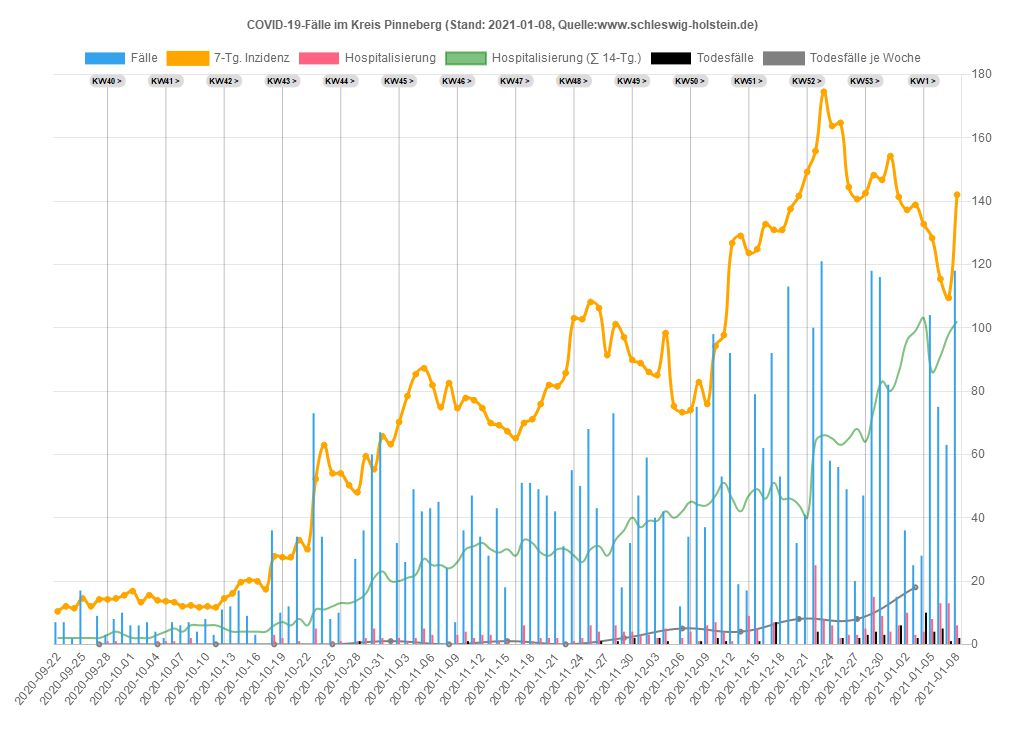
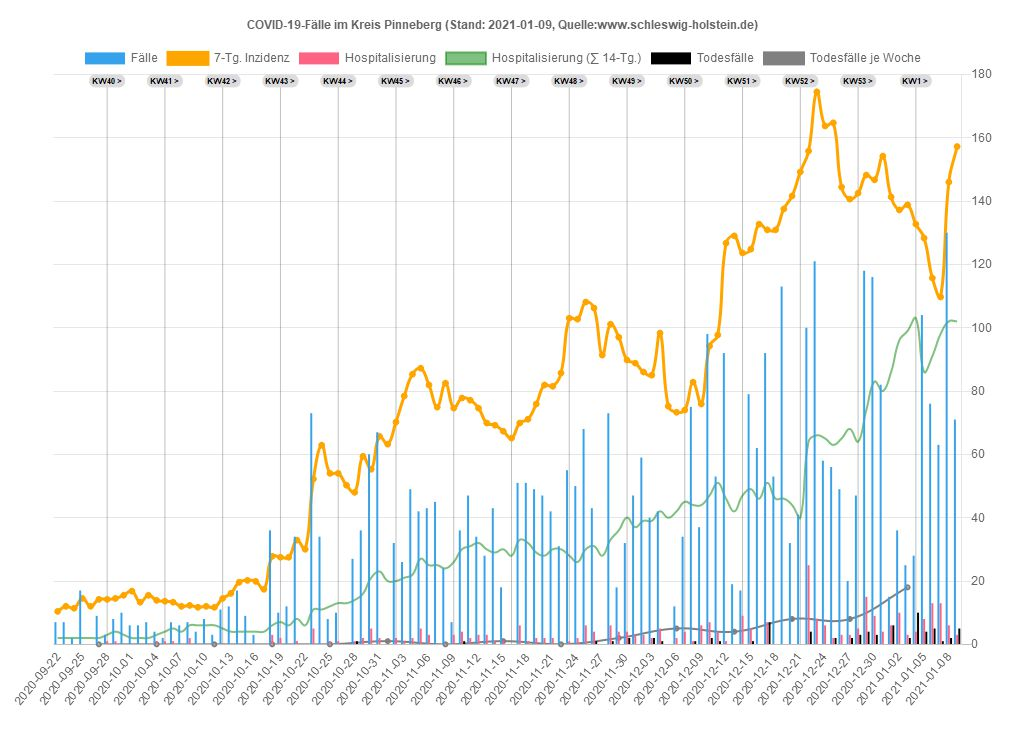
09.01.2021 21:16:49,86

Changed region(s): [[0.0625, 0.0931, 0.9375, 0.9622], [0.1562, 0.0931, 0.2812, 0.1242], [0.3125, 0.0931, 0.3438, 0.1242]]

diff --git a/sh/Data_SH.js b/sh/Data_SH.js
@@ -1,20 +1,20 @@
 var chdata={
-labels: ["2020-09-22","2020-09-23","2020-09-24","2020-09-25","2020-09-26","2020-09-27","2020-09-28","2020-09-29","2020-09-30","2020-10-01","2020-10-02","2020-10-03","2020-10-04","2020-10-05","2020-10-06","2020-10-07","2020-10-08","2020-10-09","2020-10-10","2020-10-11","2020-10-12","2020-10-13","2020-10-14","2020-10-15","2020-10-16","2020-10-17","2020-10-18","2020-10-19","2020-10-20","2020-10-21","2020-10-22","2020-10-23","2020-10-24","2020-10-25","2020-10-26","2020-10-27","2020-10-28","2020-10-29","2020-10-30","2020-10-31","2020-11-01","2020-11-02","2020-11-03","2020-11-04","2020-11-05","2020-11-06","2020-11-07","2020-11-08","2020-11-09","2020-11-10","2020-11-11","2020-11-12","2020-11-13","2020-11-14","2020-11-15","2020-11-16","2020-11-17","2020-11-18","2020-11-19","2020-11-20","2020-11-21","2020-11-22","2020-11-23","2020-11-24","2020-11-25","2020-11-26","2020-11-27","2020-11-28","2020-11-29","2020-11-30","2020-12-01","2020-12-02","2020-12-03","2020-12-04","2020-12-05","2020-12-06","2020-12-07","2020-12-08","2020-12-09","2020-12-10","2020-12-11","2020-12-12","2020-12-13","2020-12-14","2020-12-15","2020-12-16","2020-12-17","2020-12-18","2020-12-19","2020-12-20","2020-12-21","2020-12-22","2020-12-23","2020-12-24","2020-12-25","2020-12-26","2020-12-27","2020-12-28","2020-12-29","2020-12-30","2020-12-31","2021-01-01","2021-01-02","2021-01-03","2021-01-04","2021-01-05","2021-01-06","2021-01-07","2021-01-08"],
+labels: ["2020-09-22","2020-09-23","2020-09-24","2020-09-25","2020-09-26","2020-09-27","2020-09-28","2020-09-29","2020-09-30","2020-10-01","2020-10-02","2020-10-03","2020-10-04","2020-10-05","2020-10-06","2020-10-07","2020-10-08","2020-10-09","2020-10-10","2020-10-11","2020-10-12","2020-10-13","2020-10-14","2020-10-15","2020-10-16","2020-10-17","2020-10-18","2020-10-19","2020-10-20","2020-10-21","2020-10-22","2020-10-23","2020-10-24","2020-10-25","2020-10-26","2020-10-27","2020-10-28","2020-10-29","2020-10-30","2020-10-31","2020-11-01","2020-11-02","2020-11-03","2020-11-04","2020-11-05","2020-11-06","2020-11-07","2020-11-08","2020-11-09","2020-11-10","2020-11-11","2020-11-12","2020-11-13","2020-11-14","2020-11-15","2020-11-16","2020-11-17","2020-11-18","2020-11-19","2020-11-20","2020-11-21","2020-11-22","2020-11-23","2020-11-24","2020-11-25","2020-11-26","2020-11-27","2020-11-28","2020-11-29","2020-11-30","2020-12-01","2020-12-02","2020-12-03","2020-12-04","2020-12-05","2020-12-06","2020-12-07","2020-12-08","2020-12-09","2020-12-10","2020-12-11","2020-12-12","2020-12-13","2020-12-14","2020-12-15","2020-12-16","2020-12-17","2020-12-18","2020-12-19","2020-12-20","2020-12-21","2020-12-22","2020-12-23","2020-12-24","2020-12-25","2020-12-26","2020-12-27","2020-12-28","2020-12-29","2020-12-30","2020-12-31","2021-01-01","2021-01-02","2021-01-03","2021-01-04","2021-01-05","2021-01-06","2021-01-07","2021-01-08","2021-01-09"],
 datasets: [
 {label: 'Fälle',
 type: 'bar',
 backgroundColor: window.chartColors.blue,
-data: [38,42,63,53,15,15,38,48,49,27,50,16,24,39,54,45,79,54,26,25,65,65,65,55,90,26,88,163,111,160,136,236,142,115,164,164,280,215,313,265,161,142,236,262,220,274,233,177,215,252,247,192,296,158,161,100,294,208,264,250,153,121,145,251,256,225,180,219,71,81,244,240,245,318,234,122,179,356,340,443,429,444,144,210,506,522,489,553,440,193,280,589,673,366,177,201,188,268,576,466,357,135,264,203,265,543,532,481,506]},
+data: [38,42,63,53,15,15,38,48,49,27,50,16,24,39,54,45,79,54,26,25,65,65,65,55,90,26,88,163,111,160,136,236,142,115,164,164,280,215,313,265,161,142,236,262,220,274,233,177,215,252,247,192,296,158,161,100,294,208,264,250,153,121,145,251,256,225,180,219,71,81,244,240,245,318,234,122,179,356,340,443,429,444,144,210,506,522,489,553,440,193,280,589,673,366,177,201,188,268,576,466,357,135,264,203,265,544,534,483,518,408]},
 {label: '7-Tg. Inzidenz',
 type: 'line',
 fill: false,
 pointBackgroundColor: 'orange',
 borderColor: 'orange',
-data: [7.2,7.9,8.7,9.4,9.3,9.2,9.1,9.4,9.7,8.4,8.3,8.4,8.7,8.7,8.9,8.8,10.6,10.7,11.1,11.1,12.0,12.4,13.1,12.2,13.5,13.5,15.6,19.0,20.6,23.9,26.7,31.7,35.7,36.6,36.6,38.5,42.6,45.3,48.0,52.2,53.8,53.0,55.5,54.9,55.1,53.7,52.6,53.2,55.7,56.2,55.7,54.8,55.5,52.9,52.4,48.4,49.9,48.5,51.0,49.4,49.2,47.9,49.4,47.9,49.6,48.2,45.8,48.1,46.4,44.2,43.9,43.4,44.1,48.8,49.3,51.1,54.5,58.3,61.8,68.6,72.4,79.7,80.4,81.5,86.6,92.9,94.5,98.8,98.6,100.3,102.7,105.6,110.8,106.6,93.6,85.4,85.2,84.8,84.3,77.2,76.9,75.5,77.6,78.1,78.0,76.9,79.2,83.4,96.2]},
+data: [7.2,7.9,8.7,9.4,9.3,9.2,9.1,9.4,9.7,8.4,8.3,8.4,8.7,8.7,8.9,8.8,10.6,10.7,11.1,11.1,12.0,12.4,13.1,12.2,13.5,13.5,15.6,19.0,20.6,23.9,26.7,31.7,35.7,36.6,36.6,38.5,42.6,45.3,48.0,52.2,53.8,53.0,55.5,54.9,55.1,53.7,52.6,53.2,55.7,56.2,55.7,54.8,55.5,52.9,52.4,48.4,49.9,48.5,51.0,49.4,49.2,47.9,49.4,47.9,49.6,48.2,45.8,48.1,46.4,44.2,43.9,43.4,44.1,48.8,49.3,51.1,54.5,58.3,61.8,68.6,72.4,79.7,80.4,81.5,86.6,92.9,94.5,98.8,98.6,100.3,102.7,105.6,110.8,106.6,93.6,85.4,85.2,84.8,84.3,77.2,76.9,75.5,77.6,78.1,78.0,76.9,79.3,83.6,96.8,101.8]},
 {label: 'Hospitalisierung',
 type: 'bar',
 backgroundColor: window.chartColors.red,
-data: [1,2,7,1,0,0,2,1,3,1,1,0,4,3,1,1,4,2,0,3,5,1,1,2,4,0,9,10,8,9,12,7,5,6,7,7,11,10,11,6,3,9,19,20,15,15,5,7,13,15,21,13,17,8,17,13,23,10,15,9,7,7,13,16,26,19,12,14,15,10,12,8,10,14,3,5,24,13,26,20,14,12,6,26,27,16,20,18,8,13,13,43,35,23,17,21,26,25,46,33,33,20,34,32,51,58,35,46,34]},
+data: [1,2,7,1,0,0,2,1,3,1,1,0,4,3,1,1,4,2,0,3,5,1,1,2,4,0,9,10,8,9,12,7,5,6,7,7,11,10,11,6,3,9,19,20,15,15,5,7,13,15,21,13,17,8,17,13,23,10,15,9,7,7,13,16,26,19,12,14,15,10,12,8,10,14,3,5,24,13,26,20,14,12,6,26,27,16,20,18,8,13,13,43,35,23,17,21,26,25,46,33,33,20,34,32,51,58,35,46,34,30]},
 {label: 'Hosp. (∑ 14-Tg.)',
 type: 'line',
 fill: false,
@@ -22,17 +22,17 @@ hidden: true,
 borderColor: 'rgba(0,255,0,0.5)',
 borderWidth: 1.5,
 pointRadius: 0,
-data: [12,12,20,22,22,22,22,23,23,21,22,21,24,26,26,25,22,23,23,26,29,29,27,28,31,31,36,43,50,58,66,71,76,79,81,87,97,105,112,118,112,111,122,133,136,144,144,145,151,159,169,172,178,180,194,198,202,192,192,186,188,188,188,189,194,200,195,201,199,196,185,183,178,183,179,177,188,185,185,186,188,186,177,193,208,216,226,230,235,243,232,262,271,274,277,286,306,305,324,341,354,356,382,401,439,454,454,477,494]},
+data: [12,12,20,22,22,22,22,23,23,21,22,21,24,26,26,25,22,23,23,26,29,29,27,28,31,31,36,43,50,58,66,71,76,79,81,87,97,105,112,118,112,111,122,133,136,144,144,145,151,159,169,172,178,180,194,198,202,192,192,186,188,188,188,189,194,200,195,201,199,196,185,183,178,183,179,177,188,185,185,186,188,186,177,193,208,216,226,230,235,243,232,262,271,274,277,286,306,305,324,341,354,356,382,401,439,454,454,477,494,503]},
 {label: 'Aktuell im Krankenhaus',
 type: 'line',
 fill: false,
 pointBackgroundColor: 'green',
 borderColor: 'green',
-data: [6,6,6,6,6,6,6,11,11,11,11,14,14,15,15,14,14,14,13,13,18,18,18,21,24,24,24,24,31,31,31,31,51,51,58,58,58,58,58,58,58,94,110,114,119,118,124,120,126,116,113,119,112,116,116,148,145,151,141,141,141,141,155,142,122,113,118,118,118,124,114,110,109,114,114,114,131,122,128,132,133,133,133,177,181,194,201,212,236,250,275,271,267,262,262,262,262,309,318,322,346,346,376,376,390,412,376,379,364]},
+data: [6,6,6,6,6,6,6,11,11,11,11,14,14,15,15,14,14,14,13,13,18,18,18,21,24,24,24,24,31,31,31,31,51,51,58,58,58,58,58,58,58,94,110,114,119,118,124,120,126,116,113,119,112,116,116,148,145,151,141,141,141,141,155,142,122,113,118,118,118,124,114,110,109,114,114,114,131,122,128,132,133,133,133,177,181,194,201,212,236,250,275,271,267,262,262,262,262,309,318,322,346,346,376,376,390,412,376,379,364,364]},
 {label: 'Todesfälle',
 type: 'bar',
 backgroundColor: 'black',
-data: [0,0,0,0,0,0,0,1,0,0,0,0,0,0,0,0,0,0,0,0,0,1,0,0,0,0,0,0,0,0,1,0,0,3,0,0,3,4,1,0,2,6,7,2,2,6,0,1,4,3,5,0,5,1,3,5,0,2,2,2,1,0,3,4,1,3,3,1,4,2,3,1,4,1,0,1,4,2,5,7,7,1,2,2,6,7,11,3,2,0,9,15,4,3,4,7,10,18,17,14,2,9,7,3,29,22,17,6,14]},
+data: [0,0,0,0,0,0,0,1,0,0,0,0,0,0,0,0,0,0,0,0,0,1,0,0,0,0,0,0,0,0,1,0,0,3,0,0,3,4,1,0,2,6,7,2,2,6,0,1,4,3,5,0,5,1,3,5,0,2,2,2,1,0,3,4,1,3,3,1,4,2,3,1,4,1,0,1,4,2,5,7,7,1,2,2,6,7,11,3,2,0,9,15,4,3,4,7,10,18,17,14,2,9,7,3,29,22,17,6,14,11]},
 {label: 'Todesfälle je Woche',
 type: 'line',
 fill: false,
@@ -41,6 +41,6 @@ borderColor: 'rgba(128,128,128,1)',
 borderWidth: 2,
 pointRadius: 2,
 yAxisID: 'first-y-axis',
-data: [,,,,,0,,,,,,,1,,,,,,,0,,,,,,,1,,,,,,,4,,,,,,,10,,,,,,,24,,,,,,,21,,,,,,,12,,,,,,,19,,,,,,,12,,,,,,,28,,,,,,,31,,,,,,,52,,,,,,,70,,,,,]},
+data: [,,,,,0,,,,,,,1,,,,,,,0,,,,,,,1,,,,,,,4,,,,,,,10,,,,,,,24,,,,,,,21,,,,,,,12,,,,,,,19,,,,,,,12,,,,,,,28,,,,,,,31,,,,,,,52,,,,,,,70,,,,,,]},
 ]};
 

diff --git a/sh/Data_SH_Alter.js b/sh/Data_SH_Alter.js
@@ -119,7 +119,8 @@ var chdata={
 				{x: '2021-01-05', y: 'Alle', v: 76.6244469, casesum: 2225},{x: '2021-01-05', y: '00-09', v: 23.7611112, casesum: 61},{x: '2021-01-05', y: '10-19', v: 52.8972091, casesum: 146},{x: '2021-01-05', y: '20-29', v: 108.137841, casesum: 346},{x: '2021-01-05', y: '30-39', v: 93.1300935, casesum: 313},{x: '2021-01-05', y: '40-49', v: 83.6943539, casesum: 295},{x: '2021-01-05', y: '50-59', v: 76.7055375, casesum: 380},{x: '2021-01-05', y: '60-69', v: 55.2911727, casesum: 201},{x: '2021-01-05', y: '70-79', v: 62.8524893, casesum: 186},{x: '2021-01-05', y: '80-89', v: 118.540388, casesum: 212},{x: '2021-01-05', y: '90+', v: 294.975014, casesum: 85},
 				{x: '2021-01-06', y: 'Alle', v: 76.7277607, casesum: 2228},{x: '2021-01-06', y: '00-09', v: 23.7611112, casesum: 61},{x: '2021-01-06', y: '10-19', v: 54.3464477, casesum: 150},{x: '2021-01-06', y: '20-29', v: 114.388584, casesum: 366},{x: '2021-01-06', y: '30-39', v: 93.4276338, casesum: 314},{x: '2021-01-06', y: '40-49', v: 80.8572572, casesum: 285},{x: '2021-01-06', y: '50-59', v: 73.879544, casesum: 366},{x: '2021-01-06', y: '60-69', v: 53.6406899, casesum: 195},{x: '2021-01-06', y: '70-79', v: 65.2179055, casesum: 193},{x: '2021-01-06', y: '80-89', v: 121.336151, casesum: 217},{x: '2021-01-06', y: '90+', v: 281.093837, casesum: 81},
 				{x: '2021-01-07', y: 'Alle', v: 80.963629, casesum: 2351},{x: '2021-01-07', y: '00-09', v: 23.7611112, casesum: 61},{x: '2021-01-07', y: '10-19', v: 62.3172601, casesum: 172},{x: '2021-01-07', y: '20-29', v: 125.952457, casesum: 403},{x: '2021-01-07', y: '30-39', v: 95.8079556, casesum: 322},{x: '2021-01-07', y: '40-49', v: 85.9640313, casesum: 303},{x: '2021-01-07', y: '50-59', v: 76.5036809, casesum: 379},{x: '2021-01-07', y: '60-69', v: 54.7410117, casesum: 199},{x: '2021-01-07', y: '70-79', v: 62.8524893, casesum: 186},{x: '2021-01-07', y: '80-89', v: 131.960054, casesum: 236},{x: '2021-01-07', y: '90+', v: 312.326485, casesum: 90},
-				{x: '2021-01-08', y: 'Alle', v: 94.8421244, casesum: 2754},{x: '2021-01-08', y: '00-09', v: 27.6563754, casesum: 71},{x: '2021-01-08', y: '10-19', v: 72.0996207, casesum: 199},{x: '2021-01-08', y: '20-29', v: 144.704684, casesum: 463},{x: '2021-01-08', y: '30-39', v: 114.25545, casesum: 384},{x: '2021-01-08', y: '40-49', v: 95.3264505, casesum: 336},{x: '2021-01-08', y: '50-59', v: 86.5965147, casesum: 429},{x: '2021-01-08', y: '60-69', v: 65.7442302, casesum: 239},{x: '2021-01-08', y: '70-79', v: 75.3554038, casesum: 223},{x: '2021-01-08', y: '80-89', v: 164.390915, casesum: 294},{x: '2021-01-08', y: '90+', v: 402.554137, casesum: 116}
+				{x: '2021-01-08', y: 'Alle', v: 94.8421244, casesum: 2754},{x: '2021-01-08', y: '00-09', v: 27.6563754, casesum: 71},{x: '2021-01-08', y: '10-19', v: 72.0996207, casesum: 199},{x: '2021-01-08', y: '20-29', v: 144.704684, casesum: 463},{x: '2021-01-08', y: '30-39', v: 114.25545, casesum: 384},{x: '2021-01-08', y: '40-49', v: 95.3264505, casesum: 336},{x: '2021-01-08', y: '50-59', v: 86.5965147, casesum: 429},{x: '2021-01-08', y: '60-69', v: 65.7442302, casesum: 239},{x: '2021-01-08', y: '70-79', v: 75.3554038, casesum: 223},{x: '2021-01-08', y: '80-89', v: 164.390915, casesum: 294},{x: '2021-01-08', y: '90+', v: 402.554137, casesum: 116},
+				{x: '2021-01-09', y: 'Alle', v: 99.6289999, casesum: 2893},{x: '2021-01-09', y: '00-09', v: 30.7725867, casesum: 79},{x: '2021-01-09', y: '10-19', v: 77.5342654, casesum: 214},{x: '2021-01-09', y: '20-29', v: 155.330946, casesum: 497},{x: '2021-01-09', y: '30-39', v: 123.776738, casesum: 416},{x: '2021-01-09', y: '40-49', v: 99.0146763, casesum: 349},{x: '2021-01-09', y: '50-59', v: 90.835505, casesum: 450},{x: '2021-01-09', y: '60-69', v: 66.2943911, casesum: 241},{x: '2021-01-09', y: '70-79', v: 75.0174872, casesum: 222},{x: '2021-01-09', y: '80-89', v: 168.864137, casesum: 302},{x: '2021-01-09', y: '90+', v: 426.846197, casesum: 123}
 			],
 			backgroundColor: function(context) {
 				return inzColor(context.dataset.data[context.dataIndex].v)
@@ -127,7 +128,7 @@ var chdata={
 			width: function(context) {
 				const a = context.chart.chartArea
 				if (!a) return 0
-				return (a.right - a.left) / 116.5
+				return (a.right - a.left) / 117.5
 			},
 			height: function(context) {
 				const a = context.chart.chartArea
@@ -139,7 +140,7 @@ var chdata={
 	options: {
 		legend: { display: false },
 		scales: {
-			xAxes: [{type: 'category', labels: ["2020-09-15","2020-09-16","2020-09-17","2020-09-18","2020-09-19","2020-09-20","2020-09-21","2020-09-22","2020-09-23","2020-09-24","2020-09-25","2020-09-26","2020-09-27","2020-09-28","2020-09-29","2020-09-30","2020-10-01","2020-10-02","2020-10-03","2020-10-04","2020-10-05","2020-10-06","2020-10-07","2020-10-08","2020-10-09","2020-10-10","2020-10-11","2020-10-12","2020-10-13","2020-10-14","2020-10-15","2020-10-16","2020-10-17","2020-10-18","2020-10-19","2020-10-20","2020-10-21","2020-10-22","2020-10-23","2020-10-24","2020-10-25","2020-10-26","2020-10-27","2020-10-28","2020-10-29","2020-10-30","2020-10-31","2020-11-01","2020-11-02","2020-11-03","2020-11-04","2020-11-05","2020-11-06","2020-11-07","2020-11-08","2020-11-09","2020-11-10","2020-11-11","2020-11-12","2020-11-13","2020-11-14","2020-11-15","2020-11-16","2020-11-17","2020-11-18","2020-11-19","2020-11-20","2020-11-21","2020-11-22","2020-11-23","2020-11-24","2020-11-25","2020-11-26","2020-11-27","2020-11-28","2020-11-29","2020-11-30","2020-12-01","2020-12-02","2020-12-03","2020-12-04","2020-12-05","2020-12-06","2020-12-07","2020-12-08","2020-12-09","2020-12-10","2020-12-11","2020-12-12","2020-12-13","2020-12-14","2020-12-15","2020-12-16","2020-12-17","2020-12-18","2020-12-19","2020-12-20","2020-12-21","2020-12-22","2020-12-23","2020-12-24","2020-12-25","2020-12-26","2020-12-27","2020-12-28","2020-12-29","2020-12-30","2020-12-31","2021-01-01","2021-01-02","2021-01-03","2021-01-04","2021-01-05","2021-01-06","2021-01-07","2021-01-08",], ticks: {display: true},gridlines:{display:false}}],
+			xAxes: [{type: 'category', labels: ["2020-09-15","2020-09-16","2020-09-17","2020-09-18","2020-09-19","2020-09-20","2020-09-21","2020-09-22","2020-09-23","2020-09-24","2020-09-25","2020-09-26","2020-09-27","2020-09-28","2020-09-29","2020-09-30","2020-10-01","2020-10-02","2020-10-03","2020-10-04","2020-10-05","2020-10-06","2020-10-07","2020-10-08","2020-10-09","2020-10-10","2020-10-11","2020-10-12","2020-10-13","2020-10-14","2020-10-15","2020-10-16","2020-10-17","2020-10-18","2020-10-19","2020-10-20","2020-10-21","2020-10-22","2020-10-23","2020-10-24","2020-10-25","2020-10-26","2020-10-27","2020-10-28","2020-10-29","2020-10-30","2020-10-31","2020-11-01","2020-11-02","2020-11-03","2020-11-04","2020-11-05","2020-11-06","2020-11-07","2020-11-08","2020-11-09","2020-11-10","2020-11-11","2020-11-12","2020-11-13","2020-11-14","2020-11-15","2020-11-16","2020-11-17","2020-11-18","2020-11-19","2020-11-20","2020-11-21","2020-11-22","2020-11-23","2020-11-24","2020-11-25","2020-11-26","2020-11-27","2020-11-28","2020-11-29","2020-11-30","2020-12-01","2020-12-02","2020-12-03","2020-12-04","2020-12-05","2020-12-06","2020-12-07","2020-12-08","2020-12-09","2020-12-10","2020-12-11","2020-12-12","2020-12-13","2020-12-14","2020-12-15","2020-12-16","2020-12-17","2020-12-18","2020-12-19","2020-12-20","2020-12-21","2020-12-22","2020-12-23","2020-12-24","2020-12-25","2020-12-26","2020-12-27","2020-12-28","2020-12-29","2020-12-30","2020-12-31","2021-01-01","2021-01-02","2021-01-03","2021-01-04","2021-01-05","2021-01-06","2021-01-07","2021-01-08","2021-01-09",], ticks: {display: true},gridlines:{display:false}}],
 			yAxes: [{type: 'category', labels: ["Alle","00-09","10-19","20-29","30-39","40-49","50-59","60-69","70-79","80-89","90+"], offset:true, ticks: {display: true},gridlines:{display:false}}],
 		},
 	}

diff --git a/sh/Kreis_PI.js b/sh/Kreis_PI.js
@@ -1,23 +1,23 @@
 var chdata={
-labels: ["2020-09-22","2020-09-23","2020-09-24","2020-09-25","2020-09-26","2020-09-27","2020-09-28","2020-09-29","2020-09-30","2020-10-01","2020-10-02","2020-10-03","2020-10-04","2020-10-05","2020-10-06","2020-10-07","2020-10-08","2020-10-09","2020-10-10","2020-10-11","2020-10-12","2020-10-13","2020-10-14","2020-10-15","2020-10-16","2020-10-17","2020-10-18","2020-10-19","2020-10-20","2020-10-21","2020-10-22","2020-10-23","2020-10-24","2020-10-25","2020-10-26","2020-10-27","2020-10-28","2020-10-29","2020-10-30","2020-10-31","2020-11-01","2020-11-02","2020-11-03","2020-11-04","2020-11-05","2020-11-06","2020-11-07","2020-11-08","2020-11-09","2020-11-10","2020-11-11","2020-11-12","2020-11-13","2020-11-14","2020-11-15","2020-11-16","2020-11-17","2020-11-18","2020-11-19","2020-11-20","2020-11-21","2020-11-22","2020-11-23","2020-11-24","2020-11-25","2020-11-26","2020-11-27","2020-11-28","2020-11-29","2020-11-30","2020-12-01","2020-12-02","2020-12-03","2020-12-04","2020-12-05","2020-12-06","2020-12-07","2020-12-08","2020-12-09","2020-12-10","2020-12-11","2020-12-12","2020-12-13","2020-12-14","2020-12-15","2020-12-16","2020-12-17","2020-12-18","2020-12-19","2020-12-20","2020-12-21","2020-12-22","2020-12-23","2020-12-24","2020-12-25","2020-12-26","2020-12-27","2020-12-28","2020-12-29","2020-12-30","2020-12-31","2021-01-01","2021-01-02","2021-01-03","2021-01-04","2021-01-05","2021-01-06","2021-01-07","2021-01-08"],
+labels: ["2020-09-22","2020-09-23","2020-09-24","2020-09-25","2020-09-26","2020-09-27","2020-09-28","2020-09-29","2020-09-30","2020-10-01","2020-10-02","2020-10-03","2020-10-04","2020-10-05","2020-10-06","2020-10-07","2020-10-08","2020-10-09","2020-10-10","2020-10-11","2020-10-12","2020-10-13","2020-10-14","2020-10-15","2020-10-16","2020-10-17","2020-10-18","2020-10-19","2020-10-20","2020-10-21","2020-10-22","2020-10-23","2020-10-24","2020-10-25","2020-10-26","2020-10-27","2020-10-28","2020-10-29","2020-10-30","2020-10-31","2020-11-01","2020-11-02","2020-11-03","2020-11-04","2020-11-05","2020-11-06","2020-11-07","2020-11-08","2020-11-09","2020-11-10","2020-11-11","2020-11-12","2020-11-13","2020-11-14","2020-11-15","2020-11-16","2020-11-17","2020-11-18","2020-11-19","2020-11-20","2020-11-21","2020-11-22","2020-11-23","2020-11-24","2020-11-25","2020-11-26","2020-11-27","2020-11-28","2020-11-29","2020-11-30","2020-12-01","2020-12-02","2020-12-03","2020-12-04","2020-12-05","2020-12-06","2020-12-07","2020-12-08","2020-12-09","2020-12-10","2020-12-11","2020-12-12","2020-12-13","2020-12-14","2020-12-15","2020-12-16","2020-12-17","2020-12-18","2020-12-19","2020-12-20","2020-12-21","2020-12-22","2020-12-23","2020-12-24","2020-12-25","2020-12-26","2020-12-27","2020-12-28","2020-12-29","2020-12-30","2020-12-31","2021-01-01","2021-01-02","2021-01-03","2021-01-04","2021-01-05","2021-01-06","2021-01-07","2021-01-08","2021-01-09"],
 datasets: [
 {label: 'Fälle',
 type: 'bar',
 backgroundColor: window.chartColors.blue,
 yAxisID: 'first-y-axis',
-data: [7,7,2,17,0,9,3,8,10,6,6,7,4,2,7,6,7,4,8,3,11,12,17,9,3,0,36,10,12,34,0,73,34,8,10,0,27,36,60,67,0,32,26,49,42,43,45,24,7,36,47,34,28,43,18,0,51,51,49,47,42,31,55,50,68,43,0,73,18,32,47,59,40,42,0,12,34,75,37,98,53,92,19,17,79,62,92,53,113,32,41,100,121,58,56,49,20,47,118,116,82,15,36,25,28,104,75,63,118]},
+data: [7,7,2,17,0,9,3,8,10,6,6,7,4,2,7,6,7,4,8,3,11,12,17,9,3,0,36,10,12,34,0,73,34,8,10,0,27,36,60,67,0,32,26,49,42,43,45,24,7,36,47,34,28,43,18,0,51,51,49,47,42,31,55,50,68,43,0,73,18,32,47,59,40,42,0,12,34,75,37,98,53,92,19,17,79,62,92,53,113,32,41,100,121,58,56,49,20,47,118,116,82,15,36,25,28,104,76,63,130,71]},
 {label: '7-Tg. Inzidenz',
 type: 'line',
 fill: false,
 pointBackgroundColor: 'orange',
 borderColor: 'orange',
 yAxisID: 'first-y-axis',
-data: [10.4,12.0,11.4,14.5,12.0104175,14.2,14.2,14.5,15.5,16.8,13.3,15.5,13.9,13.6,13.3,12.0,12.3,11.7,12.0,11.7,14.5,16.1,19.6,20.2,19.9,17.383499,27.8,27.5,27.5,32.9,30.0260436,52.2,62.9,54.0,54.0,50.2541151,48.0,59.4,55.3,65.7,63.2127235,70.2,78.4,85.3,87.2,81.9,74.9,82.5,74.6,77.8,77.1,74.6,69.9,69.2,67.3,65.1091052,69.9,71.1,75.9,81.9,81.5,85.7,103.0,102.7,108.1,106.2,91.3423854,101.1,97.0,89.8,88.8,86.0,85.0,98.3,75.2231409,73.3,74.0,82.8,75.9,94.2,97.7,126.7,129.0,123.6,124.8,132.7,130.9,130.9,137.5,141.6,149.2,155.8,174.5,163.7,164.7,144.4,140.6,142.5,148.2,146.7,154.2,141.3,137.2,138.8,132.7,128.3,115.4,109.4,142.0]},
+data: [10.4,12.0,11.4,14.5,12.0104175,14.2,14.2,14.5,15.5,16.8,13.3,15.5,13.9,13.6,13.3,12.0,12.3,11.7,12.0,11.7,14.5,16.1,19.6,20.2,19.9,17.383499,27.8,27.5,27.5,32.9,30.0260436,52.2,62.9,54.0,54.0,50.2541151,48.0,59.4,55.3,65.7,63.2127235,70.2,78.4,85.3,87.2,81.9,74.9,82.5,74.6,77.8,77.1,74.6,69.9,69.2,67.3,65.1091052,69.9,71.1,75.9,81.9,81.5,85.7,103.0,102.7,108.1,106.2,91.3423854,101.1,97.0,89.8,88.8,86.0,85.0,98.3,75.2231409,73.3,74.0,82.8,75.9,94.2,97.7,126.7,129.0,123.6,124.8,132.7,130.9,130.9,137.5,141.6,149.2,155.8,174.5,163.7,164.7,144.4,140.6,142.5,148.2,146.7,154.2,141.3,137.2,138.8,132.7,128.3,115.7,109.7,146.0,157.2]},
 {label: 'Hospitalisierung',
 type: 'bar',
 backgroundColor: window.chartColors.red,
 yAxisID: 'first-y-axis',
-data: [0,0,0,0,0,0,1,1,0,0,0,0,1,1,1,-1,2,0,0,0,0,0,0,0,0,0,3,2,0,1,0,5,0,1,1,0,1,2,5,2,0,2,1,2,5,3,0,0,3,4,2,3,3,1,1,0,6,1,2,2,2,0,1,2,6,4,0,6,4,4,3,3,2,5,0,2,4,1,6,7,4,1,0,9,5,0,7,0,0,0,0,25,8,6,2,3,3,5,15,9,4,6,10,3,4,8,13,13,6]},
+data: [0,0,0,0,0,0,1,1,0,0,0,0,1,1,1,-1,2,0,0,0,0,0,0,0,0,0,3,2,0,1,0,5,0,1,1,0,1,2,5,2,0,2,1,2,5,3,0,0,3,4,2,3,3,1,1,0,6,1,2,2,2,0,1,2,6,4,0,6,4,4,3,3,2,5,0,2,4,1,6,7,4,1,0,9,5,0,7,0,0,0,0,25,8,6,2,3,3,5,15,9,4,6,10,3,4,8,13,13,6,3]},
 {label: 'Hospitalisierung (∑ 14-Tg.)',
 type: 'line',
 pointRadius: 0,
@@ -25,12 +25,12 @@ fill: false,
 borderColor: 'rgba(0,128,0,0.5)',
 borderWidth: 2,
 yAxisID: 'first-y-axis',
-data: [2,2,2,2,2,2,3,4,3,2,2,2,3,4,5,4,6,6,6,6,5,4,4,4,4,4,6,7,6,8,6,11,11,12,13,13,14,16,21,23,20,20,21,22,27,25,25,24,26,30,31,32,30,29,30,28,33,32,29,28,30,30,28,26,30,31,28,33,36,40,37,39,39,42,40,42,45,44,44,47,51,46,42,47,49,46,51,46,46,44,40,64,66,65,63,65,68,64,74,83,80,86,96,99,103,86,91,98,102]},
+data: [2,2,2,2,2,2,3,4,3,2,2,2,3,4,5,4,6,6,6,6,5,4,4,4,4,4,6,7,6,8,6,11,11,12,13,13,14,16,21,23,20,20,21,22,27,25,25,24,26,30,31,32,30,29,30,28,33,32,29,28,30,30,28,26,30,31,28,33,36,40,37,39,39,42,40,42,45,44,44,47,51,46,42,47,49,46,51,46,46,44,40,64,66,65,63,65,68,64,74,83,80,86,96,99,103,86,91,98,102,102]},
 {label: 'Todesfälle',
 type: 'bar',
 backgroundColor: 'black',
 yAxisID: 'first-y-axis',
-data: [0,0,0,0,0,0,0,0,0,0,0,0,0,0,0,0,0,0,0,0,0,0,0,0,0,0,0,0,0,0,0,0,0,0,0,0,1,0,0,0,0,0,0,0,0,0,0,0,0,1,0,0,0,0,0,0,0,0,0,0,0,0,0,0,0,1,0,1,0,2,0,0,2,1,0,0,0,1,0,2,1,0,0,0,1,0,7,0,0,0,0,4,0,0,2,0,2,3,4,3,0,6,0,2,10,4,5,1,2]},
+data: [0,0,0,0,0,0,0,0,0,0,0,0,0,0,0,0,0,0,0,0,0,0,0,0,0,0,0,0,0,0,0,0,0,0,0,0,1,0,0,0,0,0,0,0,0,0,0,0,0,1,0,0,0,0,0,0,0,0,0,0,0,0,0,0,0,1,0,1,0,2,0,0,2,1,0,0,0,1,0,2,1,0,0,0,1,0,7,0,0,0,0,4,0,0,2,0,2,3,4,3,0,6,0,2,10,4,5,1,2,5]},
 {label: 'Todesfälle je Woche',
 type: 'line',
 fill: false,
@@ -39,6 +39,6 @@ borderColor: 'rgba(128,128,128,1)',
 borderWidth: 2,
 pointRadius: 2,
 yAxisID: 'first-y-axis',
-data: [,,,,,0,,,,,,,0,,,,,,,0,,,,,,,0,,,,,,,0,,,,,,,1,,,,,,,0,,,,,,,1,,,,,,,0,,,,,,,2,,,,,,,5,,,,,,,4,,,,,,,8,,,,,,,8,,,,,,,18,,,,,]},
+data: [,,,,,0,,,,,,,0,,,,,,,0,,,,,,,0,,,,,,,0,,,,,,,1,,,,,,,0,,,,,,,1,,,,,,,0,,,,,,,2,,,,,,,5,,,,,,,4,,,,,,,8,,,,,,,8,,,,,,,18,,,,,,]},
 ]};
 

diff --git a/sh/index_sh_alter.html b/sh/index_sh_alter.html
@@ -5,7 +5,7 @@
 <meta property="og:image" content="index_sh_alter.jpg" />
 <meta property="og:type" content="website" />
 <meta property="og:locale" content="de_DE" />
-<meta property="og:updated_time" content="2021-01-09T20:51:50+01:00" />
+<meta property="og:updated_time" content="2021-01-09T21:16:49+01:00" />
 <title>Altersverteilung der COVID-19-Fälle in Schleswig-Holstein</title>
 <link rel="stylesheet" href="../css/style.css" media="screen" type="text/css">
 <link rel="stylesheet" media="screen" href="Chart.min.css"> 

diff --git a/sh/index_pi_alter.html b/sh/index_pi_alter.html
@@ -5,7 +5,7 @@
 <meta property="og:image" content="index_pi_alter.jpg" />
 <meta property="og:type" content="website" />
 <meta property="og:locale" content="de_DE" />
-<meta property="og:updated_time" content="2021-01-09T20:51:50+01:00" />
+<meta property="og:updated_time" content="2021-01-09T21:16:49+01:00" />
 <title>Altersverteilung der COVID-19-Fälle im Kreis Pinneberg</title>
 <link rel="stylesheet" href="../css/style.css" media="screen" type="text/css">
 <link rel="stylesheet" media="screen" href="Chart.min.css"> 

diff --git a/sh/index.html b/sh/index.html
@@ -5,7 +5,7 @@
 <meta property="og:image" content="index.jpg" />
 <meta property="og:type" content="website" />
 <meta property="og:locale" content="de_DE" />
-<meta property="og:updated_time" content="2021-01-09T20:51:50+01:00" />
+<meta property="og:updated_time" content="2021-01-09T21:16:49+01:00" />
 <title>COVID-19-Fälle im Kreis Pinneberg</title>
 <link rel="stylesheet" href="../css/style.css" media="screen" type="text/css">
 <link rel="stylesheet" media="screen" href="Chart.min.css"> 
